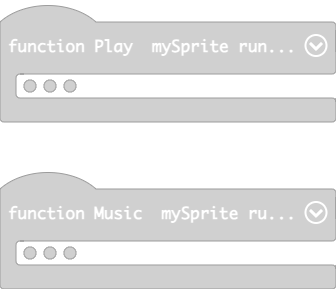
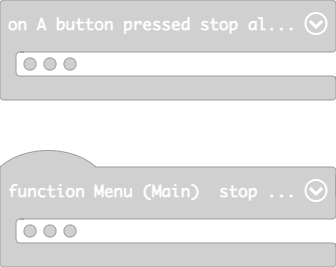
Update main.blocks, main.ts, images.g.jres, images.g.ts

diff --git a/images.g.ts b/images.g.ts
@@ -2790,6 +2790,8 @@ e e e . e . . . . 1 b b . . . .
[1 lines of base64/hex data omitted]
             case "song13":
[1 lines of base64/hex data omitted]
+            case "song6":
[1 lines of base64/hex data omitted]
         }
         return null;
     })

diff --git a/main.ts b/main.ts
@@ -9,6 +9,8 @@ controller.up.onEvent(ControllerButtonEvent.Pressed, function () {
     }
 })
 function Menu_Main () {
+    music.stopAllSounds()
+    music.play(music.createSong(assets.song`mySong2`), music.PlaybackMode.LoopingInBackground)
     scene.setBackgroundImage(assets.image`Menu`)
     sprites.destroyAllSpritesOfKind(SpriteKind.Text)
     mySprite = sprites.create(assets.image`myImage`, SpriteKind.Cursor)
@@ -59,6 +61,20 @@ controller.B.onEvent(ControllerButtonEvent.Pressed, function () {
         Menu_Main()
     }
 })
+controller.A.onEvent(ControllerButtonEvent.Pressed, function () {
+    music.stopAllSounds()
+    console.log(In_Music)
+    if (mySprite.y == 40) {
+        Playing = 1
+        Play()
+    } else if (mySprite.y == 65) {
+        In_Music = 1
+        Music()
+    }
+    if (In_Music > 0) {
+        Play_Music()
+    }
+})
 controller.right.onEvent(ControllerButtonEvent.Pressed, function () {
     if (In_Music > 0) {
         sprites.destroy(textSprite)
@@ -71,18 +87,6 @@ controller.right.onEvent(ControllerButtonEvent.Pressed, function () {
             textSprite = textsprite.create("Song " + Music_Counter, 1, 15)
             textSprite.setPosition(75, 60)
         }
-    }
-})
-controller.A.onEvent(ControllerButtonEvent.Pressed, function () {
-    console.log(In_Music)
-    if (mySprite.y == 40) {
-        Play()
-    } else if (mySprite.y == 65) {
-        In_Music = 1
-        Music()
-    }
-    if (In_Music > 0) {
-        Play_Music()
     }
 })
 controller.down.onEvent(ControllerButtonEvent.Pressed, function () {
@@ -119,6 +123,7 @@ function Play_Music () {
         music.play(music.createSong(assets.song`mySong3`), music.PlaybackMode.LoopingInBackground)
     }
 }
+let Playing = 0
 let Music_Counter_Max = 0
 let textSprite: TextSprite = null
 let Facing_R = false
